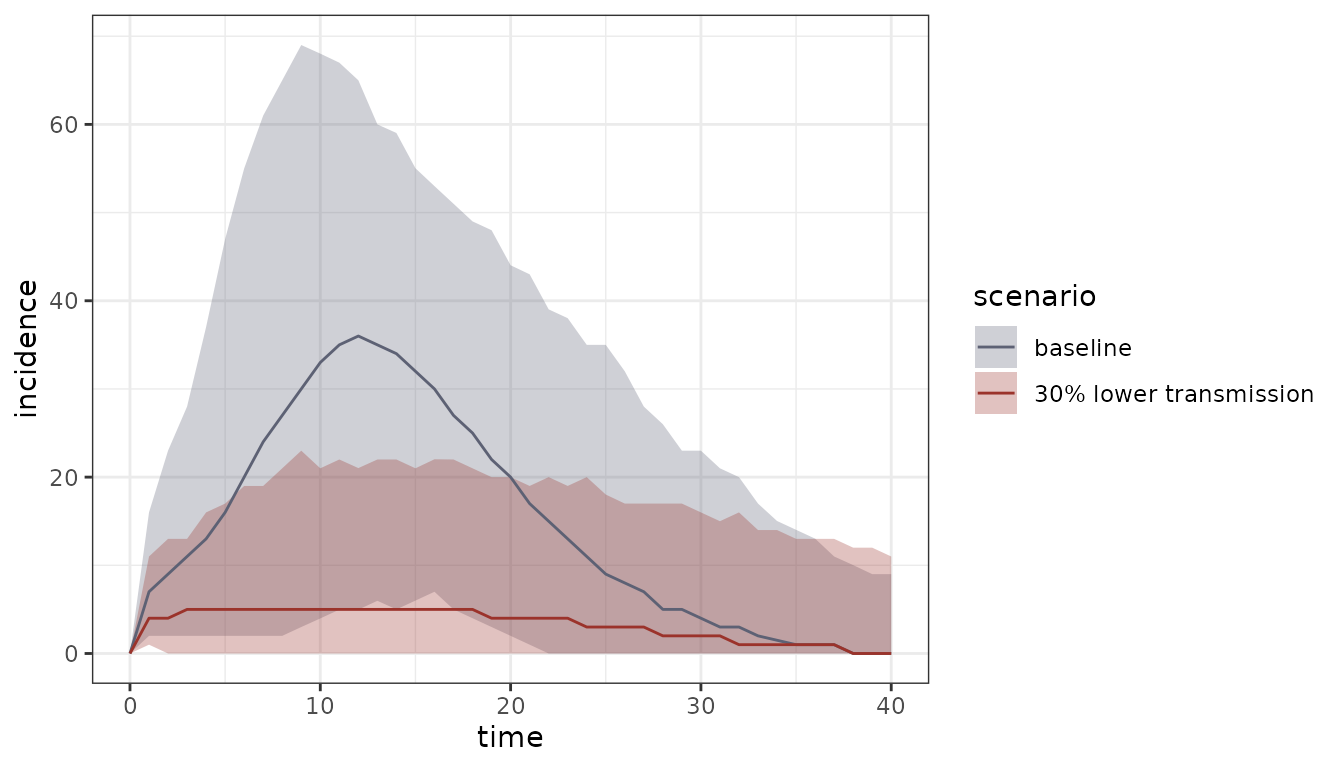
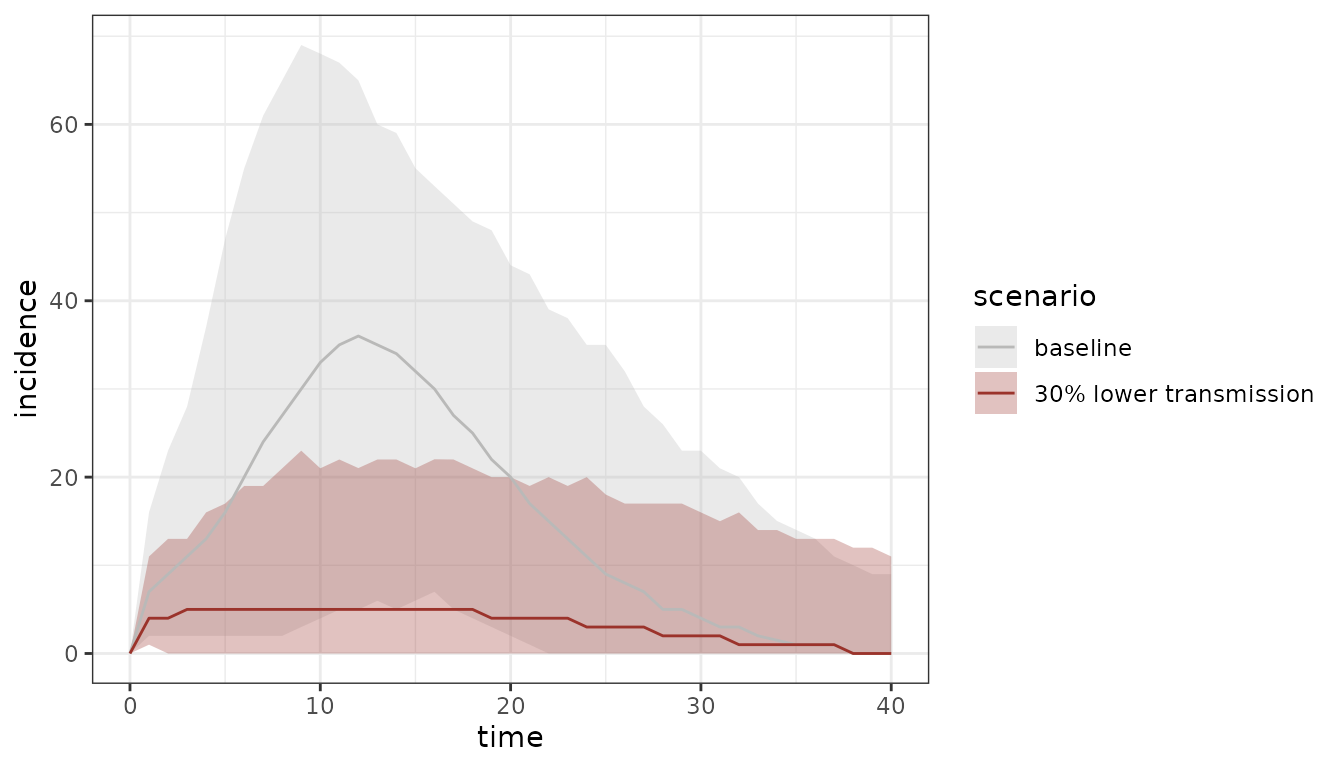
Deploying to gh-pages from @ mrc-ide/tidyodin@0d02f55aacdb9460203dad6ef34bde102a2dfb58 🚀

diff --git a/articles/parameter-sets.html b/articles/parameter-sets.html
@@ -258,18 +258,19 @@ the trajectories and the final state of each sample:</p>
 <span><span class="va">samples</span> <span class="op">&lt;-</span> <span class="fu"><a href="https://mrc-ide.github.io/monty/reference/monty_sample.html" class="external-link">monty_sample</a></span><span class="op">(</span><span class="va">likelihood</span> <span class="op">+</span> <span class="va">prior</span>, <span class="va">sampler</span>, <span class="fl">3000</span>,</span>
 <span>                        initial <span class="op">=</span> <span class="fu"><a href="https://rdrr.io/r/base/c.html" class="external-link">c</a></span><span class="op">(</span><span class="fl">0.7</span>, <span class="fl">0.45</span><span class="op">)</span>, n_chains <span class="op">=</span> <span class="fl">3</span><span class="op">)</span></span>
 <span><span class="co">#&gt; ⡀  Sampling [<span style="color: #FFAF00;">▁</span>▁▁] <span style="color: #00BB00;">■                               </span> |   0% ETA:  1m</span></span>
-<span><span class="co">#&gt; ⠄  Sampling [<span style="color: #FFAF00;">▄</span>▁▁] <span style="color: #00BB00;">■■■■■■                          </span> |  18% ETA:  9s</span></span>
-<span><span class="co">#&gt; ⢂  Sampling [<span style="color: #00BB00;">█</span><span style="color: #FFAF00;">▃</span>▁] <span style="color: #00BB00;">■■■■■■■■■■■■■■                  </span> |  44% ETA:  7s</span></span>
-<span><span class="co">#&gt; ⡂  Sampling [<span style="color: #00BB00;">██</span><span style="color: #FFAF00;">▁</span>] <span style="color: #00BB00;">■■■■■■■■■■■■■■■■■■■■■■          </span> |  69% ETA:  4s</span></span>
-<span><span class="co">#&gt; ⠅  Sampling [<span style="color: #00BB00;">██</span><span style="color: #FFAF00;">▇</span>] <span style="color: #00BB00;">■■■■■■■■■■■■■■■■■■■■■■■■■■■■■■  </span> |  96% ETA:  0s</span></span>
-<span><span class="co">#&gt; <span style="color: #00BB00;">✔</span> Sampled 9000 steps across 3 chains in 11.6s</span></span>
+<span><span class="co">#&gt; ⠄  Sampling [<span style="color: #FFAF00;">▂</span>▁▁] <span style="color: #00BB00;">■■■                             </span> |   8% ETA: 12s</span></span>
+<span><span class="co">#&gt; ⢂  Sampling [<span style="color: #FFAF00;">▇</span>▁▁] <span style="color: #00BB00;">■■■■■■■■■■                      </span> |  31% ETA:  9s</span></span>
+<span><span class="co">#&gt; ⡂  Sampling [<span style="color: #00BB00;">█</span><span style="color: #FFAF00;">▅</span>▁] <span style="color: #00BB00;">■■■■■■■■■■■■■■■■■               </span> |  53% ETA:  6s</span></span>
+<span><span class="co">#&gt; ⠅  Sampling [<span style="color: #00BB00;">██</span><span style="color: #FFAF00;">▂</span>] <span style="color: #00BB00;">■■■■■■■■■■■■■■■■■■■■■■■         </span> |  75% ETA:  3s</span></span>
+<span><span class="co">#&gt; ⢃  Sampling [<span style="color: #00BB00;">██</span><span style="color: #FFAF00;">▇</span>] <span style="color: #00BB00;">■■■■■■■■■■■■■■■■■■■■■■■■■■■■■■  </span> |  97% ETA:  0s</span></span>
+<span><span class="co">#&gt; <span style="color: #00BB00;">✔</span> Sampled 9000 steps across 3 chains in 13.4s</span></span>
 <span><span class="co">#&gt; </span></span>
 <span><span class="va">samples</span> <span class="op">&lt;-</span> <span class="fu"><a href="https://mrc-ide.github.io/monty/reference/monty_samples_thin.html" class="external-link">monty_samples_thin</a></span><span class="op">(</span><span class="va">samples</span>, burnin <span class="op">=</span> <span class="fl">1000</span>, thinning_factor <span class="op">=</span> <span class="fl">5</span><span class="op">)</span></span>
 <span></span>
 <span><span class="va">fit</span> <span class="op">&lt;-</span> <span class="fu"><a href="../reference/tidy_trajectories.html">tidy_trajectories</a></span><span class="op">(</span><span class="va">samples</span>, <span class="va">filter</span>, vars <span class="op">=</span> <span class="st">"incidence"</span><span class="op">)</span></span></code></pre></div>
 <div class="sourceCode" id="cb10"><pre class="downlit sourceCode r">
 <code class="sourceCode R"><span><span class="va">cols</span> <span class="op">&lt;-</span> <span class="fu"><a href="https://rdrr.io/pkg/MetBrewer/man/met.brewer.html" class="external-link">met.brewer</a></span><span class="op">(</span><span class="st">"Demuth"</span>, <span class="fl">5</span><span class="op">)</span></span>
-<span><span class="va">cols_scenario</span> <span class="op">&lt;-</span> <span class="fu"><a href="https://rdrr.io/r/base/c.html" class="external-link">c</a></span><span class="op">(</span><span class="st">"fit"</span> <span class="op">=</span> <span class="va">cols</span><span class="op">[</span><span class="fl">5</span><span class="op">]</span>, <span class="st">"baseline"</span> <span class="op">=</span> <span class="va">cols</span><span class="op">[</span><span class="fl">5</span><span class="op">]</span>,</span>
+<span><span class="va">cols_scenario</span> <span class="op">&lt;-</span> <span class="fu"><a href="https://rdrr.io/r/base/c.html" class="external-link">c</a></span><span class="op">(</span><span class="st">"fit"</span> <span class="op">=</span> <span class="va">cols</span><span class="op">[</span><span class="fl">5</span><span class="op">]</span>, <span class="st">"baseline"</span> <span class="op">=</span> <span class="va">cols</span><span class="op">[</span><span class="fl">4</span><span class="op">]</span>,</span>
 <span>                   <span class="st">"projection"</span> <span class="op">=</span>  <span class="va">cols</span><span class="op">[</span><span class="fl">4</span><span class="op">]</span>,</span>
 <span>                  <span class="st">"30% lower transmission"</span> <span class="op">=</span> <span class="va">cols</span><span class="op">[</span><span class="fl">1</span><span class="op">]</span><span class="op">)</span></span></code></pre></div>
 <div class="section level3">

diff --git a/articles/tidyodin.html b/articles/tidyodin.html
@@ -233,11 +233,11 @@ mix:</p>
 <span><span class="va">samples</span> <span class="op">&lt;-</span> <span class="fu"><a href="https://mrc-ide.github.io/monty/reference/monty_sample.html" class="external-link">monty_sample</a></span><span class="op">(</span><span class="va">likelihood</span> <span class="op">+</span> <span class="va">prior</span>, <span class="va">sampler</span>, <span class="fl">3000</span>,</span>
 <span>                        initial <span class="op">=</span> <span class="fu"><a href="https://rdrr.io/r/base/c.html" class="external-link">c</a></span><span class="op">(</span><span class="fl">0.7</span>, <span class="fl">0.45</span><span class="op">)</span>, n_chains <span class="op">=</span> <span class="fl">3</span><span class="op">)</span></span>
 <span><span class="co">#&gt; ⡀  Sampling [<span style="color: #FFAF00;">▁</span>▁▁] <span style="color: #00BB00;">■                               </span> |   0% ETA:  1m</span></span>
-<span><span class="co">#&gt; ⠄  Sampling [<span style="color: #FFAF00;">▅</span>▁▁] <span style="color: #00BB00;">■■■■■■■                         </span> |  21% ETA:  9s</span></span>
-<span><span class="co">#&gt; ⢂  Sampling [<span style="color: #00BB00;">█</span><span style="color: #FFAF00;">▃</span>▁] <span style="color: #00BB00;">■■■■■■■■■■■■■■■                 </span> |  47% ETA:  6s</span></span>
-<span><span class="co">#&gt; ⡂  Sampling [<span style="color: #00BB00;">██</span><span style="color: #FFAF00;">▂</span>] <span style="color: #00BB00;">■■■■■■■■■■■■■■■■■■■■■■■         </span> |  73% ETA:  3s</span></span>
-<span><span class="co">#&gt; ⠅  Sampling [<span style="color: #00BB00;">██</span><span style="color: #FFAF00;">▇</span>] <span style="color: #00BB00;">■■■■■■■■■■■■■■■■■■■■■■■■■■■■■■■ </span> |  99% ETA:  0s</span></span>
-<span><span class="co">#&gt; <span style="color: #00BB00;">✔</span> Sampled 9000 steps across 3 chains in 11.5s</span></span>
+<span><span class="co">#&gt; ⠄  Sampling [<span style="color: #FFAF00;">▅</span>▁▁] <span style="color: #00BB00;">■■■■■■■■                        </span> |  22% ETA: 10s</span></span>
+<span><span class="co">#&gt; ⢂  Sampling [<span style="color: #00BB00;">█</span><span style="color: #FFAF00;">▃</span>▁] <span style="color: #00BB00;">■■■■■■■■■■■■■■                  </span> |  44% ETA:  8s</span></span>
+<span><span class="co">#&gt; ⡂  Sampling [<span style="color: #00BB00;">█</span><span style="color: #FFAF00;">▇</span>▁] <span style="color: #00BB00;">■■■■■■■■■■■■■■■■■■■■■           </span> |  67% ETA:  4s</span></span>
+<span><span class="co">#&gt; ⠅  Sampling [<span style="color: #00BB00;">██</span><span style="color: #FFAF00;">▅</span>] <span style="color: #00BB00;">■■■■■■■■■■■■■■■■■■■■■■■■■■■■    </span> |  89% ETA:  2s</span></span>
+<span><span class="co">#&gt; <span style="color: #00BB00;">✔</span> Sampled 9000 steps across 3 chains in 13.4s</span></span>
 <span><span class="co">#&gt; </span></span>
 <span><span class="va">samples</span> <span class="op">&lt;-</span> <span class="fu"><a href="https://mrc-ide.github.io/monty/reference/monty_samples_thin.html" class="external-link">monty_samples_thin</a></span><span class="op">(</span><span class="va">samples</span>, burnin <span class="op">=</span> <span class="fl">1000</span>, thinning_factor <span class="op">=</span> <span class="fl">5</span><span class="op">)</span></span></code></pre></div>
 <p>Parameters, with chain and iteration recorded for trace plots:</p>

diff --git a/articles/parameter-sets.md b/articles/parameter-sets.md
@@ -229,11 +229,12 @@ sampler <- monty_sampler_random_walk(vcv)
 samples <- monty_sample(likelihood + prior, sampler, 3000,
                         initial = c(0.7, 0.45), n_chains = 3)
 #> ⡀  Sampling [▁▁▁] ■                                |   0% ETA:  1m
-#> ⠄  Sampling [▄▁▁] ■■■■■■                           |  18% ETA:  9s
-#> ⢂  Sampling [█▃▁] ■■■■■■■■■■■■■■                   |  44% ETA:  7s
-#> ⡂  Sampling [██▁] ■■■■■■■■■■■■■■■■■■■■■■           |  69% ETA:  4s
-#> ⠅  Sampling [██▇] ■■■■■■■■■■■■■■■■■■■■■■■■■■■■■■   |  96% ETA:  0s
-#> ✔ Sampled 9000 steps across 3 chains in 11.6s
+#> ⠄  Sampling [▂▁▁] ■■■                              |   8% ETA: 12s
+#> ⢂  Sampling [▇▁▁] ■■■■■■■■■■                       |  31% ETA:  9s
+#> ⡂  Sampling [█▅▁] ■■■■■■■■■■■■■■■■■                |  53% ETA:  6s
+#> ⠅  Sampling [██▂] ■■■■■■■■■■■■■■■■■■■■■■■          |  75% ETA:  3s
+#> ⢃  Sampling [██▇] ■■■■■■■■■■■■■■■■■■■■■■■■■■■■■■   |  97% ETA:  0s
+#> ✔ Sampled 9000 steps across 3 chains in 13.4s
 #> 
 samples <- monty_samples_thin(samples, burnin = 1000, thinning_factor = 5)
 
@@ -243,7 +244,7 @@ fit <- tidy_trajectories(samples, filter, vars = "incidence")
 ``` r
 
 cols <- met.brewer("Demuth", 5)
-cols_scenario <- c("fit" = cols[5], "baseline" = cols[5],
+cols_scenario <- c("fit" = cols[5], "baseline" = cols[4],
                    "projection" =  cols[4],
                   "30% lower transmission" = cols[1])
 ```

diff --git a/articles/tidyodin.md b/articles/tidyodin.md
@@ -196,11 +196,11 @@ sampler <- monty_sampler_random_walk(vcv)
 samples <- monty_sample(likelihood + prior, sampler, 3000,
                         initial = c(0.7, 0.45), n_chains = 3)
 #> ⡀  Sampling [▁▁▁] ■                                |   0% ETA:  1m
-#> ⠄  Sampling [▅▁▁] ■■■■■■■                          |  21% ETA:  9s
-#> ⢂  Sampling [█▃▁] ■■■■■■■■■■■■■■■                  |  47% ETA:  6s
-#> ⡂  Sampling [██▂] ■■■■■■■■■■■■■■■■■■■■■■■          |  73% ETA:  3s
-#> ⠅  Sampling [██▇] ■■■■■■■■■■■■■■■■■■■■■■■■■■■■■■■  |  99% ETA:  0s
-#> ✔ Sampled 9000 steps across 3 chains in 11.5s
+#> ⠄  Sampling [▅▁▁] ■■■■■■■■                         |  22% ETA: 10s
+#> ⢂  Sampling [█▃▁] ■■■■■■■■■■■■■■                   |  44% ETA:  8s
+#> ⡂  Sampling [█▇▁] ■■■■■■■■■■■■■■■■■■■■■            |  67% ETA:  4s
+#> ⠅  Sampling [██▅] ■■■■■■■■■■■■■■■■■■■■■■■■■■■■     |  89% ETA:  2s
+#> ✔ Sampled 9000 steps across 3 chains in 13.4s
 #> 
 samples <- monty_samples_thin(samples, burnin = 1000, thinning_factor = 5)
 ```
